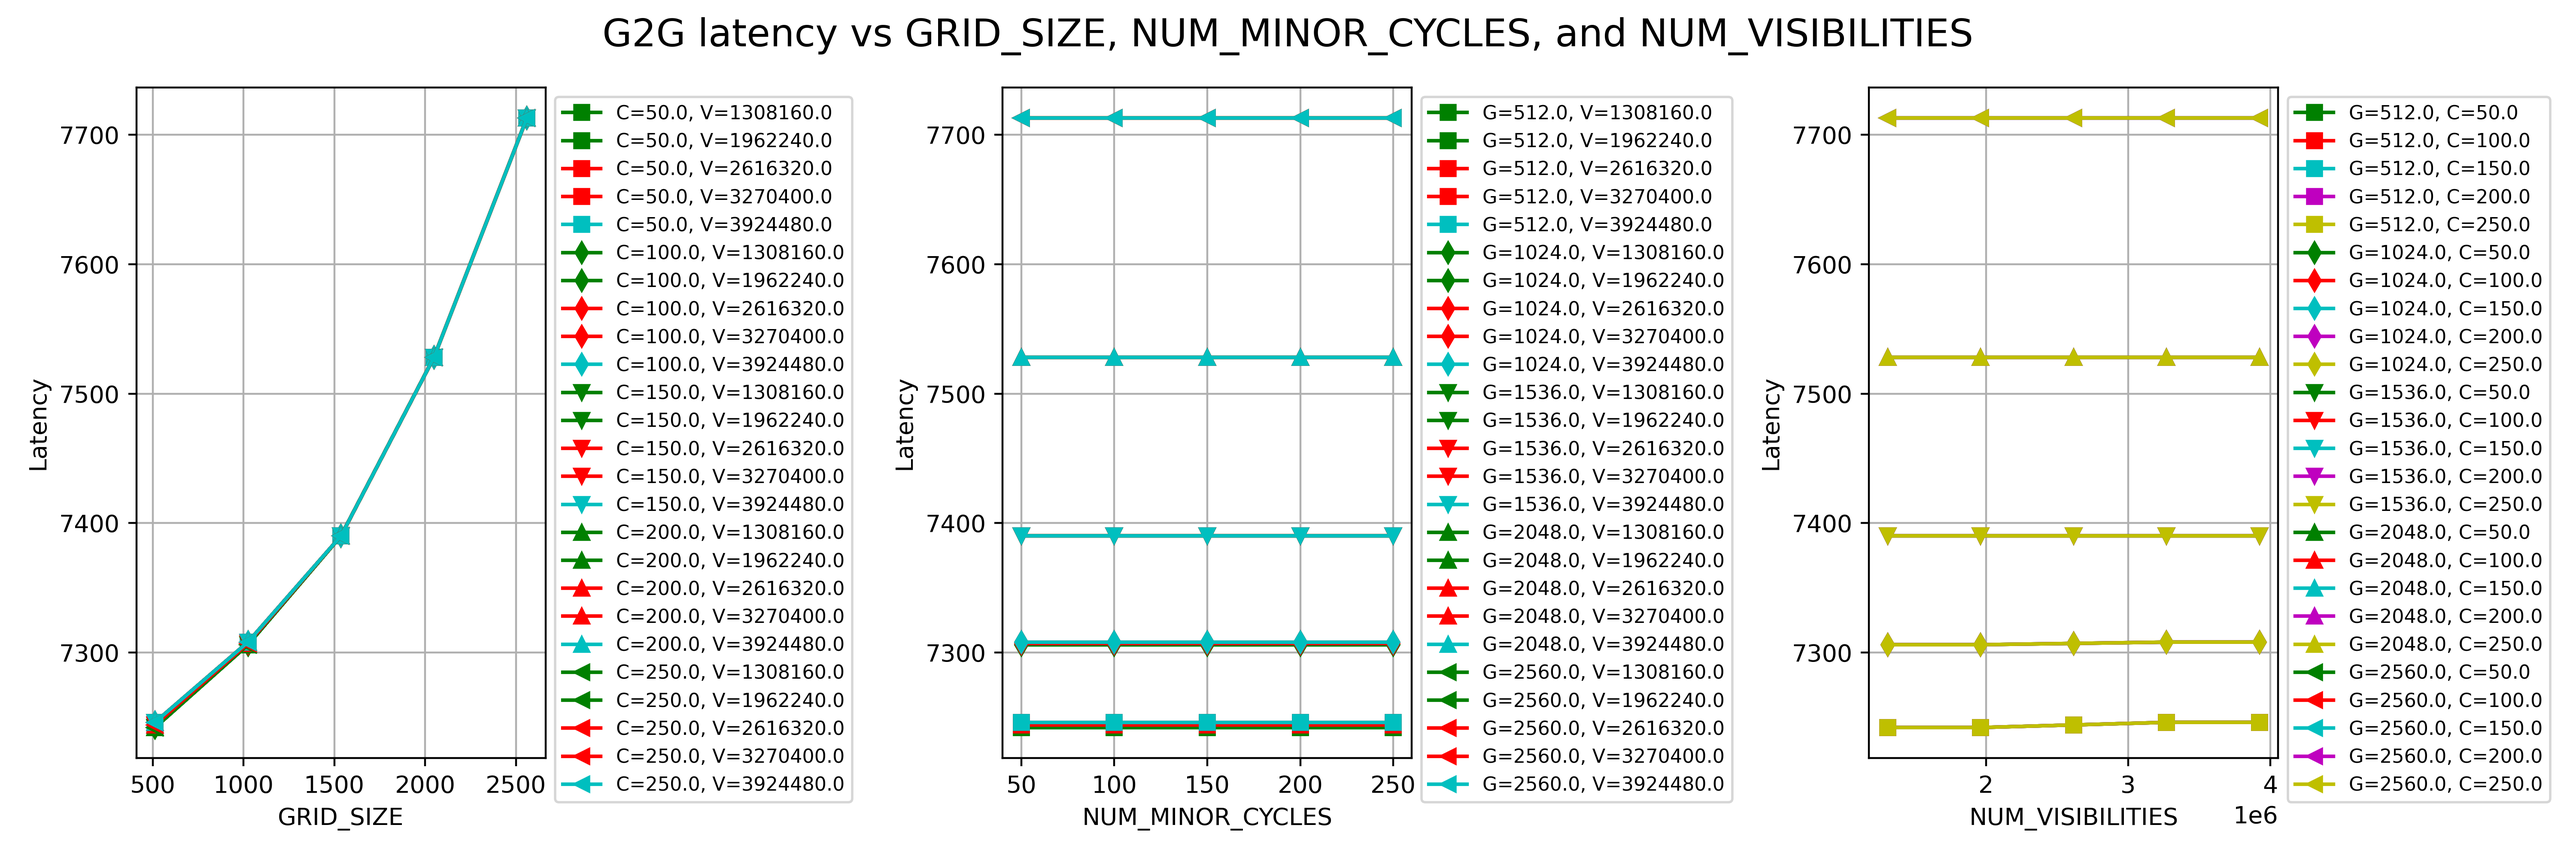
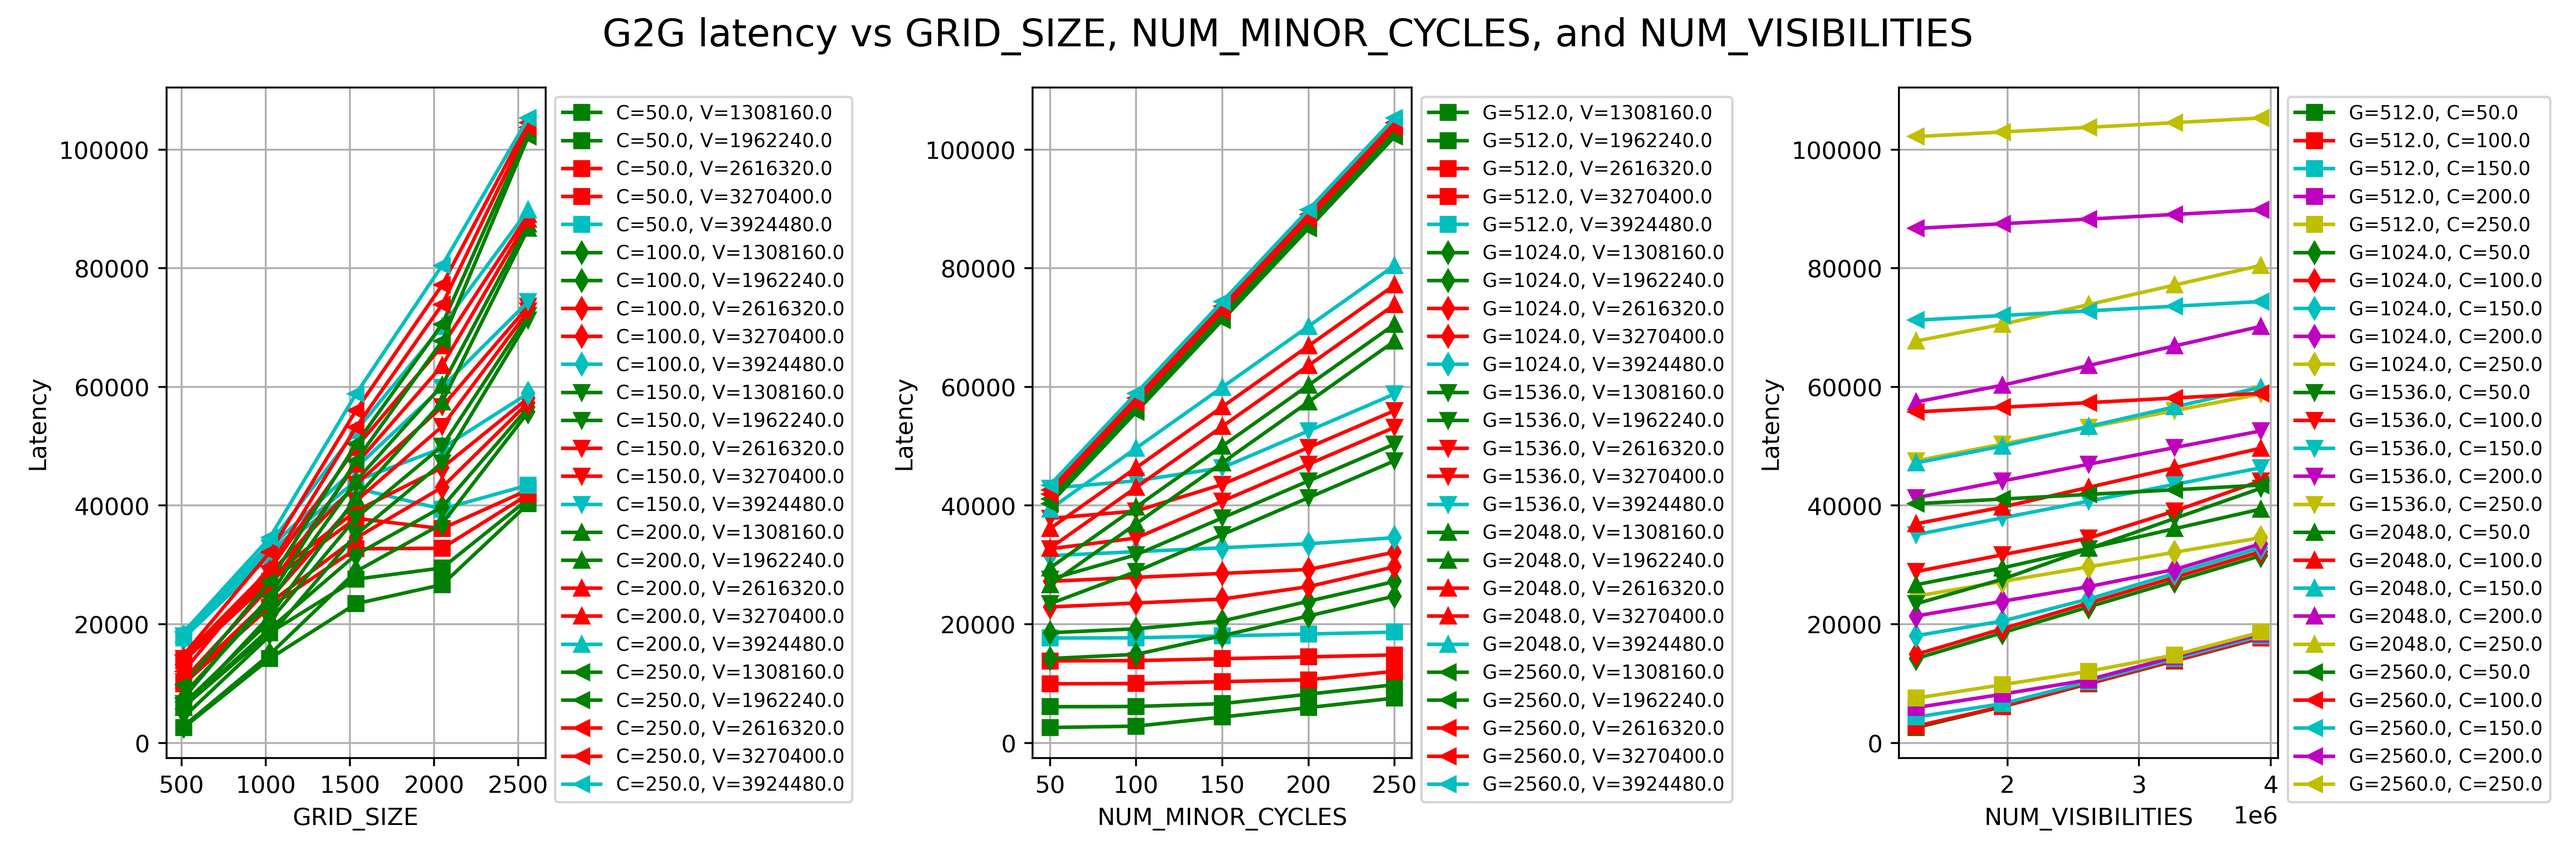
Signed-off-by: Ophélie Renaud <ophelie.renaud508@gmail.com>

diff --git a/experimental_result_data/plot_simulation.py b/experimental_result_data/plot_simulation.py
@@ -1,198 +1,83 @@
 import pandas as pd
 import matplotlib.pyplot as plt
 import itertools
+import numpy as np
 
-# Données au format CSV
-data = """GRID_SIZE;NUM_MINOR_CYCLES;NUM_VISIBILITIES;Schedulability;Power;Latency;DurationII;Memory;AskedCuts;AskedPrecuts
-512.0;50.0;1308160.0;true;211;2;7242;0;0;0
-1024.0;50.0;1308160.0;true;211;2;7306;0;0;0
-1536.0;50.0;1308160.0;true;211;2;7390;0;0;0
-2048.0;50.0;1308160.0;true;211;2;7528;0;0;0
-2560.0;50.0;1308160.0;true;211;2;7713;0;0;0
-512.0;100.0;1308160.0;true;211;2;7242;0;0;0
-1024.0;100.0;1308160.0;true;211;2;7306;0;0;0
-1536.0;100.0;1308160.0;true;211;2;7390;0;0;0
-2048.0;100.0;1308160.0;true;211;2;7528;0;0;0
-2560.0;100.0;1308160.0;true;211;2;7713;0;0;0
-512.0;150.0;1308160.0;true;211;2;7242;0;0;0
-1024.0;150.0;1308160.0;true;211;2;7306;0;0;0
-1536.0;150.0;1308160.0;true;211;2;7390;0;0;0
-2048.0;150.0;1308160.0;true;211;2;7528;0;0;0
-2560.0;150.0;1308160.0;true;211;2;7713;0;0;0
-512.0;200.0;1308160.0;true;211;2;7242;0;0;0
-1024.0;200.0;1308160.0;true;211;2;7306;0;0;0
-1536.0;200.0;1308160.0;true;211;2;7390;0;0;0
-2048.0;200.0;1308160.0;true;211;2;7528;0;0;0
-2560.0;200.0;1308160.0;true;211;2;7713;0;0;0
-512.0;250.0;1308160.0;true;211;2;7242;0;0;0
-1024.0;250.0;1308160.0;true;211;2;7306;0;0;0
-1536.0;250.0;1308160.0;true;211;2;7390;0;0;0
-2048.0;250.0;1308160.0;true;211;2;7528;0;0;0
-2560.0;250.0;1308160.0;true;211;2;7713;0;0;0
-512.0;50.0;1962240.0;true;211;2;7242;0;0;0
-1024.0;50.0;1962240.0;true;211;2;7306;0;0;0
-1536.0;50.0;1962240.0;true;211;2;7390;0;0;0
-2048.0;50.0;1962240.0;true;211;2;7528;0;0;0
-2560.0;50.0;1962240.0;true;211;2;7713;0;0;0
-512.0;100.0;1962240.0;true;211;2;7242;0;0;0
-1024.0;100.0;1962240.0;true;211;2;7306;0;0;0
-1536.0;100.0;1962240.0;true;211;2;7390;0;0;0
-2048.0;100.0;1962240.0;true;211;2;7528;0;0;0
-2560.0;100.0;1962240.0;true;211;2;7713;0;0;0
-512.0;150.0;1962240.0;true;211;2;7242;0;0;0
-1024.0;150.0;1962240.0;true;211;2;7306;0;0;0
-1536.0;150.0;1962240.0;true;211;2;7390;0;0;0
-2048.0;150.0;1962240.0;true;211;2;7528;0;0;0
-2560.0;150.0;1962240.0;true;211;2;7713;0;0;0
-512.0;200.0;1962240.0;true;211;2;7242;0;0;0
-1024.0;200.0;1962240.0;true;211;2;7306;0;0;0
-1536.0;200.0;1962240.0;true;211;2;7390;0;0;0
-2048.0;200.0;1962240.0;true;211;2;7528;0;0;0
-2560.0;200.0;1962240.0;true;211;2;7713;0;0;0
-512.0;250.0;1962240.0;true;211;2;7242;0;0;0
-1024.0;250.0;1962240.0;true;211;2;7306;0;0;0
-1536.0;250.0;1962240.0;true;211;2;7390;0;0;0
-2048.0;250.0;1962240.0;true;211;2;7528;0;0;0
-2560.0;250.0;1962240.0;true;211;2;7713;0;0;0
-512.0;50.0;2616320.0;true;211;2;7244;0;0;0
-1024.0;50.0;2616320.0;true;211;2;7307;0;0;0
-1536.0;50.0;2616320.0;true;211;2;7390;0;0;0
-2048.0;50.0;2616320.0;true;211;2;7528;0;0;0
-2560.0;50.0;2616320.0;true;211;2;7713;0;0;0
-512.0;100.0;2616320.0;true;211;2;7244;0;0;0
-1024.0;100.0;2616320.0;true;211;2;7307;0;0;0
-1536.0;100.0;2616320.0;true;211;2;7390;0;0;0
-2048.0;100.0;2616320.0;true;211;2;7528;0;0;0
-2560.0;100.0;2616320.0;true;211;2;7713;0;0;0
-512.0;150.0;2616320.0;true;211;2;7244;0;0;0
-1024.0;150.0;2616320.0;true;211;2;7307;0;0;0
-1536.0;150.0;2616320.0;true;211;2;7390;0;0;0
-2048.0;150.0;2616320.0;true;211;2;7528;0;0;0
-2560.0;150.0;2616320.0;true;211;2;7713;0;0;0
-512.0;200.0;2616320.0;true;211;2;7244;0;0;0
-1024.0;200.0;2616320.0;true;211;2;7307;0;0;0
-1536.0;200.0;2616320.0;true;211;2;7390;0;0;0
-2048.0;200.0;2616320.0;true;211;2;7528;0;0;0
-2560.0;200.0;2616320.0;true;211;2;7713;0;0;0
-512.0;250.0;2616320.0;true;211;2;7244;0;0;0
-1024.0;250.0;2616320.0;true;211;2;7307;0;0;0
-1536.0;250.0;2616320.0;true;211;2;7390;0;0;0
-2048.0;250.0;2616320.0;true;211;2;7528;0;0;0
-2560.0;250.0;2616320.0;true;211;2;7713;0;0;0
-512.0;50.0;3270400.0;true;211;2;7246;0;0;0
-1024.0;50.0;3270400.0;true;211;2;7308;0;0;0
-1536.0;50.0;3270400.0;true;211;2;7390;0;0;0
-2048.0;50.0;3270400.0;true;211;2;7528;0;0;0
-2560.0;50.0;3270400.0;true;211;2;7713;0;0;0
-512.0;100.0;3270400.0;true;211;2;7246;0;0;0
-1024.0;100.0;3270400.0;true;211;2;7308;0;0;0
-1536.0;100.0;3270400.0;true;211;2;7390;0;0;0
-2048.0;100.0;3270400.0;true;211;2;7528;0;0;0
-2560.0;100.0;3270400.0;true;211;2;7713;0;0;0
-512.0;150.0;3270400.0;true;211;2;7246;0;0;0
-1024.0;150.0;3270400.0;true;211;2;7308;0;0;0
-1536.0;150.0;3270400.0;true;211;2;7390;0;0;0
-2048.0;150.0;3270400.0;true;211;2;7528;0;0;0
-2560.0;150.0;3270400.0;true;211;2;7713;0;0;0
-512.0;200.0;3270400.0;true;211;2;7246;0;0;0
-1024.0;200.0;3270400.0;true;211;2;7308;0;0;0
-1536.0;200.0;3270400.0;true;211;2;7390;0;0;0
-2048.0;200.0;3270400.0;true;211;2;7528;0;0;0
-2560.0;200.0;3270400.0;true;211;2;7713;0;0;0
-512.0;250.0;3270400.0;true;211;2;7246;0;0;0
-1024.0;250.0;3270400.0;true;211;2;7308;0;0;0
-1536.0;250.0;3270400.0;true;211;2;7390;0;0;0
-2048.0;250.0;3270400.0;true;211;2;7528;0;0;0
-2560.0;250.0;3270400.0;true;211;2;7713;0;0;0
-512.0;50.0;3924480.0;true;211;2;7246;0;0;0
-1024.0;50.0;3924480.0;true;211;2;7308;0;0;0
-1536.0;50.0;3924480.0;true;211;2;7390;0;0;0
-2048.0;50.0;3924480.0;true;211;2;7528;0;0;0
-2560.0;50.0;3924480.0;true;211;2;7713;0;0;0
-512.0;100.0;3924480.0;true;211;2;7246;0;0;0
-1024.0;100.0;3924480.0;true;211;2;7308;0;0;0
-1536.0;100.0;3924480.0;true;211;2;7390;0;0;0
-2048.0;100.0;3924480.0;true;211;2;7528;0;0;0
-2560.0;100.0;3924480.0;true;211;2;7713;0;0;0
-512.0;150.0;3924480.0;true;211;2;7246;0;0;0
-1024.0;150.0;3924480.0;true;211;2;7308;0;0;0
-1536.0;150.0;3924480.0;true;211;2;7390;0;0;0
-2048.0;150.0;3924480.0;true;211;2;7528;0;0;0
-2560.0;150.0;3924480.0;true;211;2;7713;0;0;0
-512.0;200.0;3924480.0;true;211;2;7246;0;0;0
-1024.0;200.0;3924480.0;true;211;2;7308;0;0;0
-1536.0;200.0;3924480.0;true;211;2;7390;0;0;0
-2048.0;200.0;3924480.0;true;211;2;7528;0;0;0
-2560.0;200.0;3924480.0;true;211;2;7713;0;0;0
-512.0;250.0;3924480.0;true;211;2;7246;0;0;0
-1024.0;250.0;3924480.0;true;211;2;7308;0;0;0
-1536.0;250.0;3924480.0;true;211;2;7390;0;0;0
-2048.0;250.0;3924480.0;true;211;2;7528;0;0;0
-2560.0;250.0;3924480.0;true;211;2;7713;0;0;0
-"""
-subset_name ="DurationII"#"Latency"
-# Chargement des données dans un DataFrame
-from io import StringIO
-df = pd.read_csv(StringIO(data), delimiter=';')
+# Liste des fichiers CSV à traiter
+csv_files = {
+    "g2g_clean": "moldable/g2g_clean.csv",
+    #"g2g": "moldable/g2g.csv",
+    #"dft": "moldable/dft.csv",
+    #"fft": "moldable/fft.csv"
+}
 
-# Création d'une figure avec deux sous-graphiques côte à côte
-fig, axes = plt.subplots(1, 3, figsize=(15, 5))
+subset_name = "DurationII"  # Ou "Latency"
 
+def plot_data(file_key, file_path):
+    # Chargement des données
+    df = pd.read_csv(file_path, delimiter=';')
+    
+    # Vérifier que les colonnes existent
+    required_columns = {"NUM_MINOR_CYCLES", "NUM_VISIBILITIES", "GRID_SIZE", subset_name}
+    if not required_columns.issubset(df.columns):
+        print(f"Erreur : Colonnes manquantes dans {file_path}")
+        return
+    
+    # Création d'une figure avec trois sous-graphiques
+    fig, axes = plt.subplots(1, 3, figsize=(15, 5))
+    colors = ['b', 'g', 'r', 'c', 'm', 'y', 'k', 'purple', 'orange', 'brown']
+    markers = ['o', 's', 'd', 'v', '^', '<', '>', 'p', 'h', '*']
+    
+    # --- 1. Latency vs GRID_SIZE ---
+    for (num_cycles, num_vis) in itertools.product(df["NUM_MINOR_CYCLES"].unique(), df["NUM_VISIBILITIES"].unique()):
+        subset = df[(df["NUM_MINOR_CYCLES"] == num_cycles) & (df["NUM_VISIBILITIES"] == num_vis)]
+        axes[0].plot(subset["GRID_SIZE"], subset[subset_name], 
+                     marker=markers[(int(num_cycles) // 50) % len(markers)], 
+                     linestyle='-', color=colors[(int(num_vis) // 1308160) % len(colors)], 
+                     label=f"C={num_cycles}, V={num_vis}")
+    
+    axes[0].set_xlabel("GRID_SIZE")
+    axes[0].set_ylabel("Latency")
+    axes[0].legend(fontsize=8, loc='upper left', bbox_to_anchor=(1,1))
+    axes[0].grid()
+    
+    # --- 2. Latency vs NUM_MINOR_CYCLES ---
+    for (grid_size, num_vis) in itertools.product(df["GRID_SIZE"].unique(), df["NUM_VISIBILITIES"].unique()):
+        subset = df[(df["GRID_SIZE"] == grid_size) & (df["NUM_VISIBILITIES"] == num_vis)]
+        axes[1].plot(subset["NUM_MINOR_CYCLES"], subset[subset_name], 
+                     marker=markers[(int(grid_size) // 512) % len(markers)], 
+                     linestyle='-', color=colors[(int(num_vis) // 1308160) % len(colors)], 
+                     label=f"G={grid_size}, V={num_vis}")
+    
+    axes[1].set_xlabel("NUM_MINOR_CYCLES")
+    axes[1].set_ylabel("Latency")
+    axes[1].legend(fontsize=8, loc='upper left', bbox_to_anchor=(1,1))
+    axes[1].grid()
+    
+    # --- 3. Latency vs NUM_VISIBILITIES ---
+    for (grid_size, num_cycles) in itertools.product(df["GRID_SIZE"].unique(), df["NUM_MINOR_CYCLES"].unique()):
+        subset = df[(df["GRID_SIZE"] == grid_size) & (df["NUM_MINOR_CYCLES"] == num_cycles)]
+        axes[2].plot(subset["NUM_VISIBILITIES"], subset[subset_name], 
+                     marker=markers[(int(grid_size) // 512) % len(markers)], 
+                     linestyle='-', color=colors[(int(num_cycles) // 50) % len(colors)], 
+                     label=f"G={grid_size}, C={num_cycles}")
+    
+    axes[2].set_xlabel("NUM_VISIBILITIES")
+    axes[2].set_ylabel("Latency")
+    axes[2].legend(fontsize=8, loc='upper left', bbox_to_anchor=(1,1))
+    axes[2].grid()
+    
+    # Titre global et ajustement de l'affichage
+    fig.suptitle(f"{file_key} Latency vs GRID_SIZE, NUM_MINOR_CYCLES, and NUM_VISIBILITIES", fontsize=16)
+    plt.tight_layout()
+    
+    # Enregistrer la figure en PNG
+    fig.savefig(f"simulation_{file_key}.png", format="png", dpi=400)
+    print(f"Graphique enregistré : simulation_{file_key}.png")
+    
+    plt.show()
 
-# Liste de couleurs et styles pour distinguer les courbes
-colors = ['b', 'g', 'r', 'c', 'm', 'y', 'k', 'purple', 'orange', 'brown']
-markers = ['o', 's', 'd', 'v', '^', '<', '>', 'p', 'h', '*']
+# Exécuter la fonction pour chaque fichier
+for key, path in csv_files.items():
+    plot_data(key, path)
 
-# --- 1. Latency vs GRID_SIZE avec différentes valeurs de (NUM_MINOR_CYCLES, NUM_VISIBILITIES) ---
-for (num_cycles, num_vis) in itertools.product(df["NUM_MINOR_CYCLES"].unique(), df["NUM_VISIBILITIES"].unique()):
-    subset = df[(df["NUM_MINOR_CYCLES"] == num_cycles) & (df["NUM_VISIBILITIES"] == num_vis)]
-    axes[0].plot(subset["GRID_SIZE"], subset[subset_name], 
-                 marker=markers[(int(num_cycles) // 50) % len(markers)], 
-                 linestyle='-', color=colors[(int(num_vis) // 1308160) % len(colors)], 
-                 label=f"C={num_cycles}, V={num_vis}")
-
-axes[0].set_xlabel("GRID_SIZE")
-axes[0].set_ylabel("Latency")
-#axes[0].set_title("Latence vs GRID_SIZE")
-axes[0].legend(fontsize=8, loc='upper left', bbox_to_anchor=(1,1))
-axes[0].grid()
-
-# --- 2. Latency vs NUM_MINOR_CYCLES avec différentes valeurs de (GRID_SIZE, NUM_VISIBILITIES) ---
-for (grid_size, num_vis) in itertools.product(df["GRID_SIZE"].unique(), df["NUM_VISIBILITIES"].unique()):
-    subset = df[(df["GRID_SIZE"] == grid_size) & (df["NUM_VISIBILITIES"] == num_vis)]
-    axes[1].plot(subset["NUM_MINOR_CYCLES"], subset[subset_name], 
-                 marker=markers[(int(grid_size) // 512) % len(markers)], 
-                 linestyle='-', color=colors[(int(num_vis) // 1308160) % len(colors)], 
-                 label=f"G={grid_size}, V={num_vis}")
-
-axes[1].set_xlabel("NUM_MINOR_CYCLES")
-axes[1].set_ylabel("Latency")
-#axes[1].set_title("Latence vs NUM_MINOR_CYCLES")
-axes[1].legend(fontsize=8, loc='upper left', bbox_to_anchor=(1,1))
-axes[1].grid()
-
-# --- 3. Latency vs NUM_VISIBILITIES avec différentes valeurs de (GRID_SIZE, NUM_MINOR_CYCLES) ---
-for (grid_size, num_cycles) in itertools.product(df["GRID_SIZE"].unique(), df["NUM_MINOR_CYCLES"].unique()):
-    subset = df[(df["GRID_SIZE"] == grid_size) & (df["NUM_MINOR_CYCLES"] == num_cycles)]
-    axes[2].plot(subset["NUM_VISIBILITIES"], subset[subset_name], 
-                 marker=markers[(int(grid_size) // 512) % len(markers)], 
-                 linestyle='-', color=colors[(int(num_cycles) // 50) % len(colors)], 
-                 label=f"G={grid_size}, C={num_cycles}")
-
-axes[2].set_xlabel("NUM_VISIBILITIES")
-axes[2].set_ylabel("Latency")
-#axes[2].set_title("Latence vs NUM_VISIBILITIES")
-axes[2].legend(fontsize=8, loc='upper left', bbox_to_anchor=(1,1))
-axes[2].grid()
-
-# Titre global
-fig.suptitle("G2G latency vs GRID_SIZE, NUM_MINOR_CYCLES, and NUM_VISIBILITIES", fontsize=16)
-
-# Ajustement de l'affichage
-plt.tight_layout()
-
-# Enregistrer la figure en PNG
-fig.savefig("simulation_g2g.png", format="png", dpi=400)
-
-#plt.subplots_adjust(top=0.85, wspace=0.3)  # Augmenter l'espace horizontal entre les plots
-plt.show()

diff --git a/README.md b/README.md
@@ -356,6 +356,8 @@ To reveal the contrasts:
     <summary style="cursor: pointer; color: #007bff;"> Click here to reveal the section </summary>
 .
 
+How to retrieve the following results: `cd experimental_result_data/` > `python plot_simulation`.
+
 | Pipeline        | Architecture            | SimSDP      |
 | --------------- | ----------------------- | ----------- |
 | G2G - ~~Clean~~ | 6 core CPU x86 - 1 node | semi-manual |
